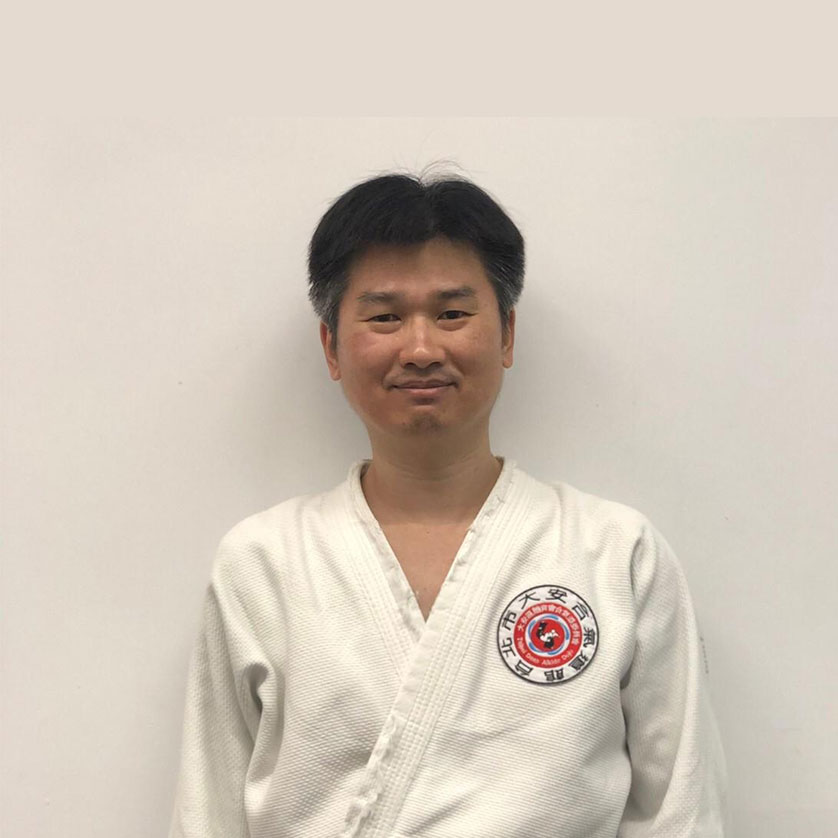
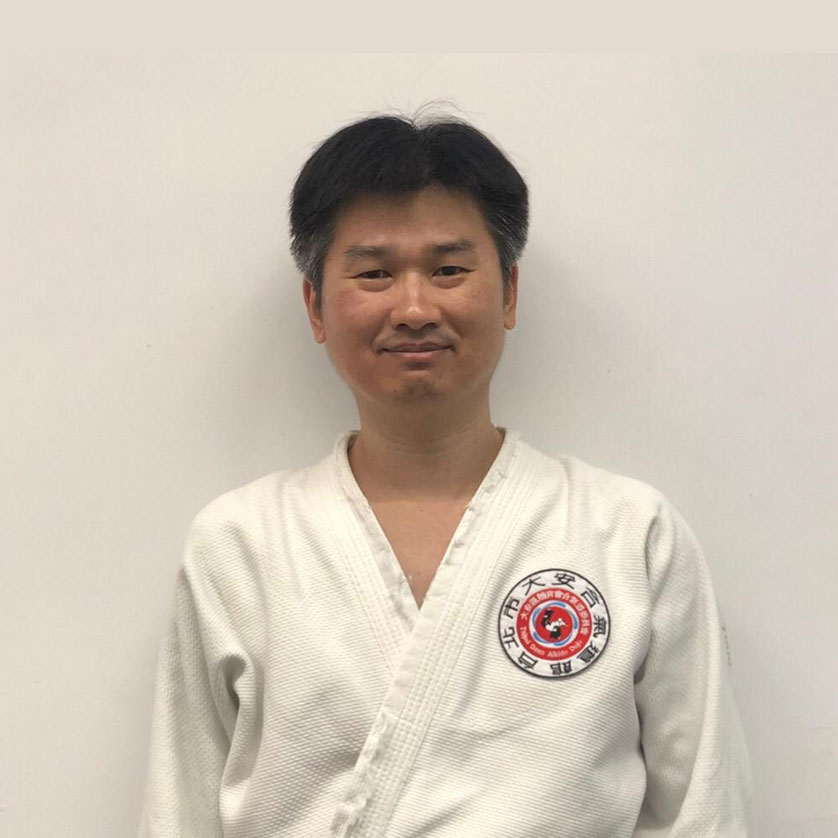
index.html與 teachers.html 本道館的師資團隊--增加 曹嘉洲 助教 合氣道初段

Changed region(s): [[0.1862, 0.1241, 0.8998, 1.0], [0.5585, 0.8998, 0.5895, 0.9308], [0.3723, 0.6516, 0.4033, 0.6826]]

diff --git a/teachers.html b/teachers.html
@@ -574,6 +574,7 @@
                     <div class="image-container">
                         <div class="card">
                             <img class="card-image img-fluid" src="images/team-member-all.jpg" alt="師資助教群">
+                            
                             <div class="card-body">
                             </div>
                         </div>
@@ -602,7 +603,18 @@
                             </li>                            
 
                         </ul>
-                    </div> <!-- end of text container -->                    
+                    </div> <!-- end of text container -->     
+                    
+                    <div class="text-container">
+                        <h4 class="turquoise">▍ 曹嘉洲助教</h4>
+                        <ul class="list-unstyled li-space-lg indent">
+                            <li class="media">
+                                <i class="fa fa-circle"></i>
+                                <div class="media-body">台北市大安合氣道委員會合氣道初段</div>
+                            </li>                            
+
+                        </ul>
+                    </div> <!-- end of text container -->  
                 </div> <!-- end of col -->
             </div> <!-- end of row -->
         </div> <!-- end of container -->

diff --git a/index.html b/index.html
@@ -946,6 +946,16 @@
                     </div> <!-- end of team-member -->
                     <!-- end of team member -->
 
+                    <!-- Team Member -->
+                    <div class="team-member">
+                        <div class="image-wrapper">
+                            <img class="img-fluid" src="images/team-member-b5.jpg" alt="alternative">
+                        </div> <!-- end of image wrapper -->
+                        <p class="p-large"><strong>團隊 曹嘉洲助教</strong></p>
+                        <p class="job-title">合氣道初段</p>
+                        </span> <!-- end of social-icons -->
+                    </div> <!-- end of team-member -->
+                    <!-- end of team member -->
                 </div> <!-- end of col -->
             </div> <!-- end of row -->
         </div> <!-- end of container -->
